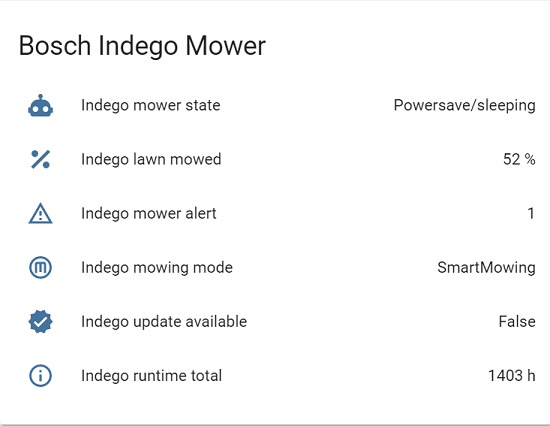
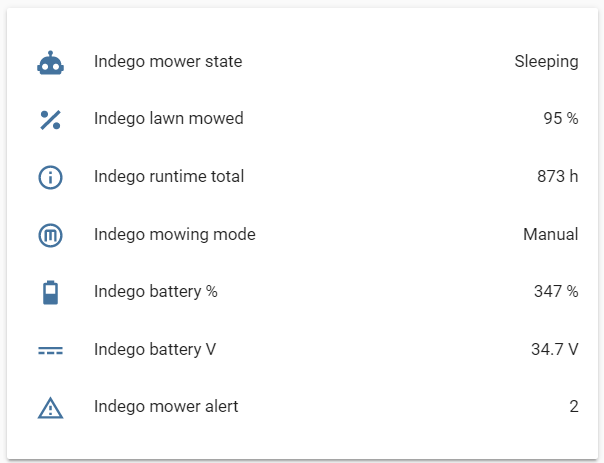
Updating documentation

diff --git a/README.md b/README.md
@@ -35,7 +35,6 @@ indego_id:       123456789
 |Indego mower state      | Current state                                    |
 |Indego lawn mowed       | Current percentage of the lawn that is mowed     |
 |Indego mowing mode      | The mowing mode set                              |
-|Indego update available | Check if there are any firmware update available |
 |Indego runtime total    | Sum the total runtime of the mover               |
 |Indego alerts           | Number of alerts                                 |
 |Indego battery %        | Battery percentage (experimental)                |
@@ -54,6 +53,7 @@ indego_id:       123456789
 ![Runtime Total](/doc/4-Indego_Runtime_detail.png)
 
 **Indego battery %** has properties for percentage, voltage, cycles, discharge and temperature.
+![Battery sensor](/doc/5-Indego_Battery_Sensor.png)
 
 ### Service
 There are a service exposed to HA called **indego.mower_command**. It sends a specified command to the mower. Accepted commands are:
@@ -65,7 +65,7 @@ There are a service exposed to HA called **indego.mower_command**. It sends a sp
 |returnToDock | Return mower to dock |
 
 Example creating automation in HA gui:
-![Services](/doc/5-Indego_Call_service.png)
+![Services](/doc/6-Indego_Call_service.png)
 
 Example for automations.yaml:
 
